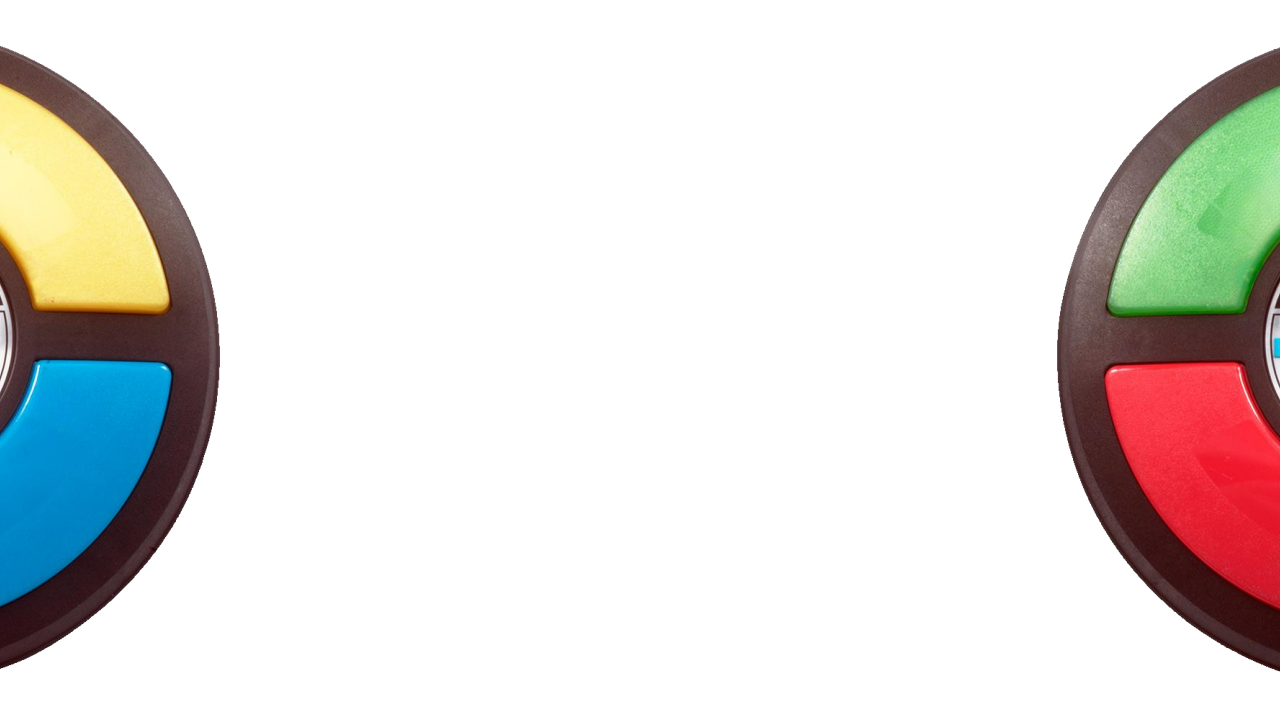
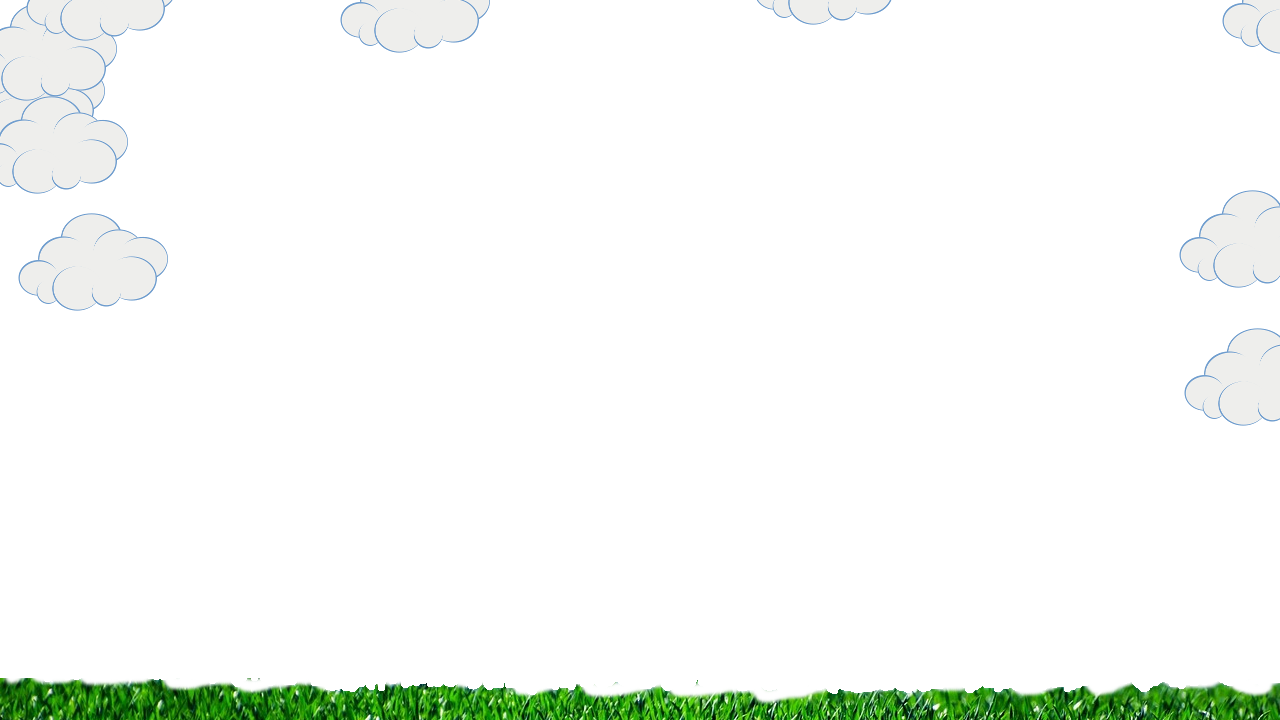
Better difficult levels

diff --git a/js/kamfu-game-ninja.js b/js/kamfu-game-ninja.js
@@ -1,5 +1,6 @@
 var NINJA_WIDTH = 130;
 var NINJA_HEIGHT = 145;
+var TIME = 20000;
 
 
 var gameNinja = {
@@ -9,12 +10,12 @@ var gameNinja = {
     score: 0,
     level: 0,
     life: 400,
-    levelTime: 20000,
+    levelTime: TIME,
 
     setup: function(gameBackground, gameFront) {
         gameNinja.foregroundImage = $("#ninjaForeground")[0];
         gameNinja.time = new Date().getTime();
-        gameNinja.levelTime = 20000;
+        gameNinja.levelTime = TIME;
         gameNinja.status= 0,
         gameNinja.score= 0,
         gameNinja.level= 0,
@@ -55,67 +56,96 @@ var gameNinja = {
         gameCommon.ctxBack.fillRect(21,21,gameNinja.life,39);
     },
 
-    launchNinja: function(){
-        var x;
-        var y;
-        var velX;
-        var velY;
-        var type;
-        var rnd;
-        var pos = Math.round(Math.random() * 3);
-
+    createRandomNinja: function(){
         if (Math.random() >= 0.5){
             type = document.getElementById("ninjaBlack");
         } else {
             type = document.getElementById("ninjaWhite");
         }
+        sound = 'audio/lee' + (Math.round(Math.random()*2) +1) + '.ogg';
 
-        rnd = Math.round(Math.random()) +1;
-        sound = 'audio/lee' + rnd + '.ogg';
-
-
-        if (Math.random() >= 0.5){
-            x = 0;
-            y = Math.round(Math.random() * 720);
-            if (y > 360) {
-                velY = -0.2;
-            } else {
-                velY = 0.2;
-            }
-            velX = 0.4;
-        } else {
-            x = 1280;
-            y = Math.round(Math.random() * 720);
-            velX = -0.4;
-            if (y > 360) {
-                velY = -0.2;
-            } else {
-                velY = 0.2;
-            }
-        }
-
-        velY = velY * (1+(gameNinja.level/10));
-        velX = velX * (1+(gameNinja.level/10));
-
-
-
-        var ninja = new Item(x, y, x+NINJA_WIDTH, y+NINJA_HEIGHT, velX, velY, type, document.getElementById("ninjaExplosion"), sound);
-        gameCommon.items.push(ninja);
-
+        return new Item(0, 0, NINJA_WIDTH, NINJA_HEIGHT, 0, 0, type, document.getElementById("ninjaExplosion"), sound);
 
     },
 
+    createNinja1: function(ninja){
+        ninja = gameNinja.createRandomNinja();
+        ninja.x1 = 0;
+        ninja.x2 = ninja.x1 + NINJA_WIDTH;
+        ninja.y1 = Math.round(Math.random() * 300);
+        ninja.y2 = ninja.y1 + NINJA_HEIGHT;
+        ninja.velY = 0.2;
+        ninja.velX = 0.3 + (Math.random() * 0.2) + (0.1 * gameNinja.level);
+
+        ninja.refreshScaled();
+        return ninja;
+    },
+
+    createNinja2: function(ninja){
+        ninja = gameNinja.createRandomNinja();
+        ninja.x1 = 0;
+        ninja.x2 = ninja.x1 + NINJA_WIDTH;
+        ninja.y1 = Math.round(Math.random() * 300)+300;
+        ninja.y2 = ninja.y1 + NINJA_HEIGHT;
+        ninja.velY = -0.2;
+        ninja.velX = 0.3 + (Math.random() * 0.2) + (0.1 * gameNinja.level);
+
+        ninja.refreshScaled();
+        return ninja;
+    },
+
+    createNinja3: function(ninja){
+        ninja = gameNinja.createRandomNinja();
+        ninja.x1 = 1280;
+        ninja.x2 = ninja.x1 + NINJA_WIDTH;
+        ninja.y1 = Math.round(Math.random() * 300);
+        ninja.y2 = ninja.y1 + NINJA_HEIGHT;
+        ninja.velY = 0.2;
+        ninja.velX = -0.3 - (Math.random() * 0.2) - (0.1 * gameNinja.level);
+
+        ninja.refreshScaled();
+        return ninja;
+    },
+
+    createNinja4: function(ninja){
+        ninja = gameNinja.createRandomNinja();
+        ninja.x1 = 1280;
+        ninja.x2 = ninja.x1 + NINJA_WIDTH;
+        ninja.y1 = Math.round(Math.random() * 300)+300;
+        ninja.y2 = ninja.y1 + NINJA_HEIGHT;
+        ninja.velY = -0.2;
+        ninja.velX = -0.3 - (Math.random() * 0.2) - (0.1 * gameNinja.level);
+
+        ninja.refreshScaled();
+        return ninja;
+    },
+
+
+
     launchNinjas: function(){
+        var ninjas = [gameNinja.createNinja1(),gameNinja.createNinja2(), gameNinja.createNinja3(), gameNinja.createNinja4()];
+        var max = (gameNinja.level <= 3)?gameNinja.level:3;
+
+        for (i=0; i<= max; i++){
+            var rnd = Math.round(Math.random() * (ninjas.length-1));
+            console.log("Ninja " + rnd);
+            var ninja = ninjas.splice(rnd,1)[0];
+            gameCommon.items.push(ninja);
+        }
+
+    },
+
+    ninjaStream: function(){
         if (gameNinja.status == 1) {
-            gameNinja.launchNinja();
-            gameNinja.launchNinja();
-            window.setTimeout(gameNinja.launchNinjas, 2000 - (gameNinja.level * 50));
+            gameNinja.launchNinjas();
+            window.setTimeout(gameNinja.ninjaStream, 2000 - (gameNinja.level * 100));
         }
     },
 
     startGame: function() {
+        console.log("Start ninja!");
         gameNinja.status = 1;
-        gameNinja.launchNinjas();
+        gameNinja.ninjaStream();
     },
 
     checkPunch: function(ninja){
@@ -143,7 +173,9 @@ var gameNinja = {
                     ninja.velY = 0;
                     ninja.imageActive = null;
                     ninja.setActive(true);
-                    gameNinja.life -= 100;
+                    if (gameNinja.life > 0) {
+                        gameNinja.life -= 100;
+                    }
                 } else if (active){
                     gameCommon.playSound(ninja.sound);
                     ninja.velX = 0;
@@ -159,11 +191,13 @@ var gameNinja = {
 
     splash: function(){
         var now = new Date().getTime();
-        if (now - gameNinja.time > 5000){
-            gameNinja.status = 1;
-            gameCommon.clearItems();
-            gameCommon.clearText();
-            gameNinja.startGame();
+        if (now - gameNinja.time > 2000){
+            if (gameNinja.status != 1) {
+                gameNinja.status = 1;
+                gameCommon.clearItems();
+                gameCommon.clearText();
+                gameNinja.startGame();
+            }
         }
     },
 
@@ -180,7 +214,7 @@ var gameNinja = {
             gameNinja.level++;
             gameNinja.status = 0;
             gameNinja.time = now;
-            gameNinja.levelTime = 20000;
+            gameNinja.levelTime = TIME;
         } else {
             var kia = [];
             for (i = 0; i < gameCommon.items.length; i++) {

diff --git a/js/kamfu-game-simon.js b/js/kamfu-game-simon.js
@@ -6,7 +6,7 @@ var gameSimon = {
     sequence: [],
     index: 0,
     time:0,
-    status: 0, //0: Splash, 1: Machine, 2: User, 3: End
+    status: 0, //0: Splash, 1: Machine, 2: User, 3: End, 4: Pause
 
 
     setup: function(gameBackground, gameFront, movementImage) {
@@ -16,19 +16,19 @@ var gameSimon = {
         gameSimon.buttons = [];
 
         var button;
-        button = new Item(810, 50, 930, 170, 0, 0, document.getElementById("buttonYellow"), document.getElementById("buttonYellowBig"), 'audio/note1.ogg');
+        button = new Item(1010, 50, 1130, 170, 0, 0, document.getElementById("buttonYellow"), document.getElementById("buttonYellowBig"), 'audio/note1.ogg');
         gameCommon.items.push(button);
         gameSimon.buttons.push(button);
 
-        button = new Item(350, 50, 470, 170, 0, 0, document.getElementById("buttonGreen"), document.getElementById("buttonGreenBig"), 'audio/note2.ogg');
+        button = new Item(150, 50, 270, 170, 0, 0, document.getElementById("buttonGreen"), document.getElementById("buttonGreenBig"), 'audio/note2.ogg');
         gameCommon.items.push(button);
         gameSimon.buttons.push(button);
 
-        button = new Item(910, 500, 1030, 720, 0, 0, document.getElementById("buttonBlue"), document.getElementById("buttonBlueBig"), 'audio/note3.ogg');
+        button = new Item(1010, 500, 1130, 720, 0, 0, document.getElementById("buttonBlue"), document.getElementById("buttonBlueBig"), 'audio/note3.ogg');
         gameCommon.items.push(button);
         gameSimon.buttons.push(button);
 
-        button = new Item(250, 500, 370, 720, 0, 0, document.getElementById("buttonRed"), document.getElementById("buttonRedBig"), 'audio/note4.ogg');
+        button = new Item(150, 500, 270, 720, 0, 0, document.getElementById("buttonRed"), document.getElementById("buttonRedBig"), 'audio/note4.ogg');
         gameCommon.items.push(button);
         gameSimon.buttons.push(button);
 
@@ -47,7 +47,6 @@ var gameSimon = {
             button.y2 = button.y2 + 40;
             button.refreshScaled();
             button.setActive(true);
-            gameCommon.clearFrontContext();
         }
     },
 
@@ -60,7 +59,6 @@ var gameSimon = {
             button.y2 = button.y2 - 40;
             button.refreshScaled();
             button.setActive(false);
-            gameCommon.clearFrontContext();
         }
     },
 
@@ -83,10 +81,7 @@ var gameSimon = {
                                 gameCommon.playSound(button.sound);
                                 gameSimon.index++;
                                 if (gameSimon.index == gameSimon.sequence.length){
-                                    console.log("computer");
-                                    gameSimon.status = 1;
-                                    gameCommon.drawText("COMPUTER");
-                                    window.setTimeout(gameSimon.computerTurn, 3000);
+                                    gameSimon.endUserTurn();
                                 }
                             } else {
                                 gameSimon.endGame();
@@ -105,16 +100,21 @@ var gameSimon = {
         }
     },
 
-    computerTurn: function(){
+    endUserTurn: function(){
         gameSimon.status = 1;
-        gameCommon.clearText();
+        gameSimon.index = 0;
+        gameCommon.drawText("COMPUTER");
+        window.setTimeout(gameSimon.computerTurn, 3000);
         for (i = 0; i < gameSimon.buttons.length; i++) {
             var button = gameSimon.buttons[i];
             if (button.active){
-                gameSimon.deactivateButton(button);
+                window.setTimeout(function(){gameSimon.deactivateButton(button);}, 200);
             }
         }
-        gameSimon.index = 0;
+    },
+
+    computerTurn: function(){
+        gameCommon.clearText();
         var num = Math.floor((Math.random() * 4));
         var button = gameSimon.buttons[num];
         gameSimon.sequence.push(button);
@@ -122,9 +122,9 @@ var gameSimon = {
     },
 
     startUser: function(){
+        gameSimon.status = 4;
         gameCommon.drawText("YOU");
-        window.setTimeout(function(){gameCommon.clearText()}, 1000);
-        gameSimon.status = 2;
+        window.setTimeout(function(){gameCommon.clearText(); gameSimon.status = 2;}, 1000);
         gameSimon.index = 0;
     },
 
@@ -139,12 +139,19 @@ var gameSimon = {
         if (index == gameSimon.sequence.length){
             window.setTimeout(function(){gameSimon.startUser();}, 1000);
         } else {
-            console.log("Index: "+index + "Length: "+gameSimon.sequence.length);
             var button = gameSimon.sequence[index];
             gameCommon.playSound(button.sound);
             gameSimon.activateButton(button);
-            window.setTimeout(function(){console.log('A '+gameSimon.status);gameSimon.deactivateButton(button)}, 500);
-            window.setTimeout(function(){gameSimon.playSequence(index+1)}, 1000);
+            window.setTimeout(function(){gameSimon.deactivateButton(button)}, 500);
+
+            var time = 1000 - (gameSimon.sequence.length * 50);
+            if (time < 600) {
+                time = 600;
+            }
+
+            console.log(time);
+
+            window.setTimeout(function(){gameSimon.playSequence(index+1)}, time);
         }
     },
 

diff --git a/js/kamfu-game-common.js b/js/kamfu-game-common.js
@@ -169,10 +169,10 @@ var gameCommon = {
         gameCommon.time = time;
 
         gameCommon.gameLoop(delta);
-
+        gameCommon.clearFrontContext();
         for (i = 0; i < gameCommon.items.length; i++) {
             var item = gameCommon.items[i];
-            gameCommon.clearItem(item);
+            //gameCommon.clearItem(item);
             var antes = item.x1;
             item.x1 = Math.round(item.x1 + (delta * item.velX));
             item.x2 = Math.round(item.x2 + (delta * item.velX));
@@ -201,10 +201,6 @@ var gameCommon = {
         document.getElementById('effect').play()
     },
 
-    initCallback: function(){
-        gameCommon.startGame(gameMenu);
-    },
-
     drawText: function(text) {
         if (gameCommon.currentText != text) {
             gameCommon.clearText();
@@ -220,7 +216,11 @@ var gameCommon = {
     clearText: function(text) {
         gameCommon.currentText = "";
         gameCommon.ctxText.clearRect(0, 0, GAME_WIDTH, GAME_HEIGHT);
-    }
+    },
+
+    initCallback: function(){
+        gameCommon.startGame(gameMenu);
+    },
 
 
 
